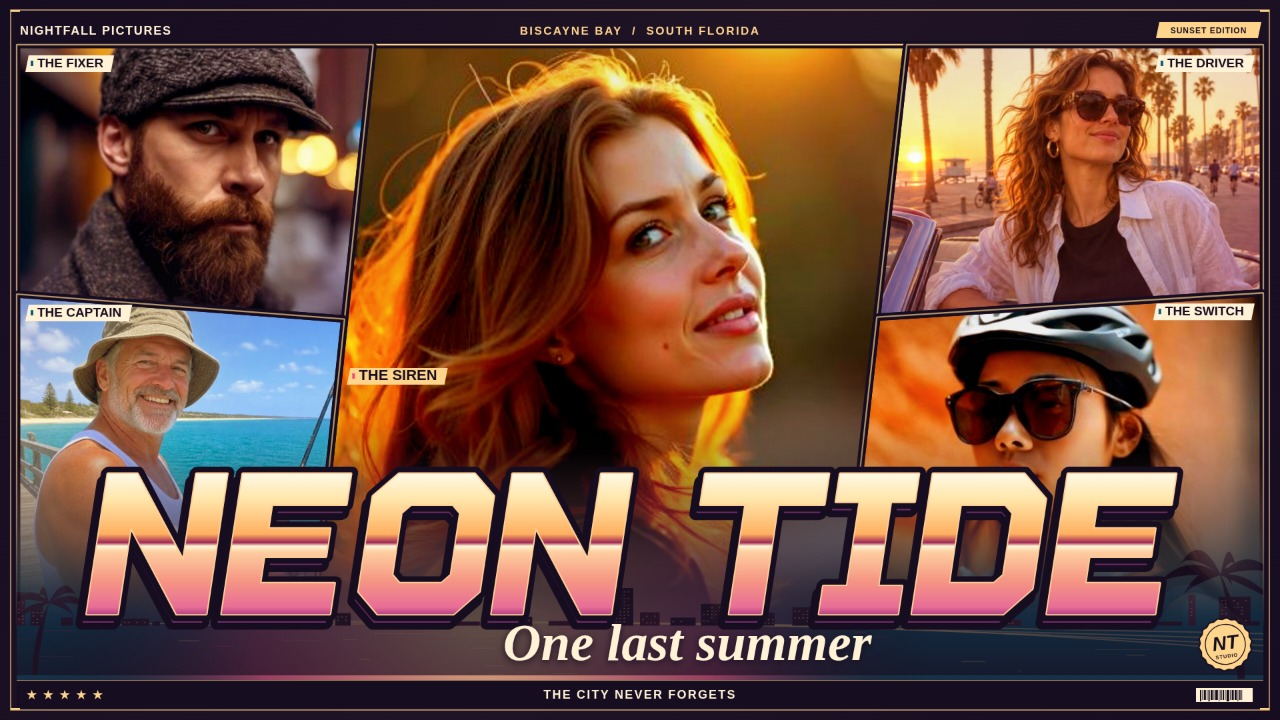
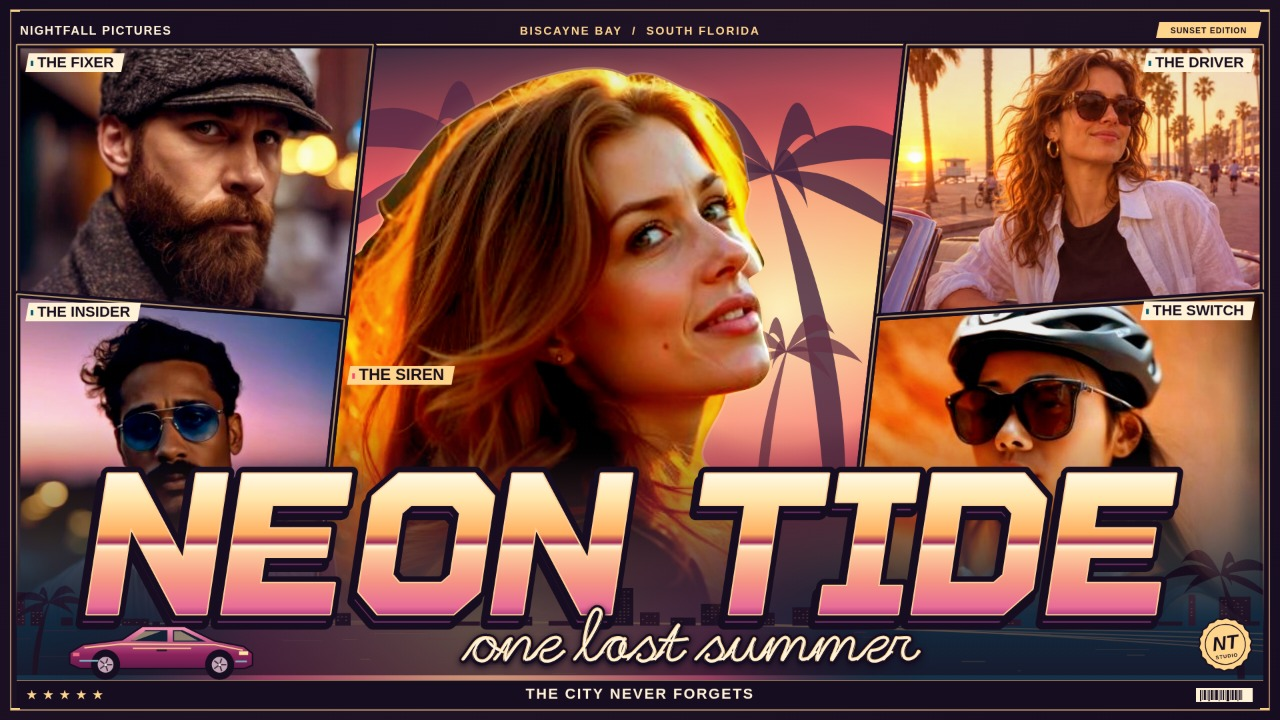
Add original script lettering and cinematic cast backdrops

diff --git a/app/src/art.js b/app/src/art.js
@@ -27,7 +27,7 @@ export const LAYOUTS = [
 const cast = [
   { role: 'THE SIREN', x: -0.06, y: 0.93 },
   { role: 'THE FIXER', x: 0.08, y: 0.42 },
-  { role: 'THE CAPTAIN', x: 0.02, y: 0.63 },
+  { role: 'THE INSIDER', x: 0.02, y: 0.63 },
   { role: 'THE DRIVER', x: -0.07, y: 0.74 },
   { role: 'THE SWITCH', x: -0.12, y: 0.76 },
 ];
@@ -253,6 +253,56 @@ function palm(ctx, x, y, size, sway, color) {
   ctx.restore();
 }
 
+const velvetProfile = 'M34 442C42 419 36 386 34 366C29 340 22 320 24 291C18 268 18 238 22 209C27 191 34 183 32 168C38 159 44 151 52 146C55 137 65 134 68 124C66 120 63 116 64 111C72 108 74 100 83 93C91 80 99 71 111 59C122 52 134 43 145 39C156 30 170 26 182 23C203 17 225 14 240 23C256 17 268 26 281 32C297 36 305 44 315 59C324 74 323 92 327 103C326 113 320 120 325 130C329 137 334 145 337 153C339 160 331 162 326 166C327 173 335 180 335 189C337 197 335 203 339 213C343 225 342 232 336 238C332 244 322 245 310 248C308 260 296 274 294 284C289 295 299 304 312 307C325 310 327 322 322 331C317 340 322 348 326 356C330 367 337 373 341 383C335 389 322 389 321 397C322 410 330 424 325 442Z';
+
+function paintLead(ctx, asset, panel, crop, grade, amount, inkMode) {
+  if (!asset?.backdrop || amount < .2) {
+    projectPhoto(ctx, asset, panel, crop, grade, amount, 0, inkMode);
+    return;
+  }
+
+  const { x, y, w, h } = panel;
+  const fit = cropTravel(asset.image, panel, crop.zoom);
+  const transform = new DOMMatrix()
+    .translate(x + w / 2 + fit.x * crop.x, y + h / 2 + fit.y * crop.y)
+    .scale(crop.flip ? -1 : 1, 1)
+    .translate(-fit.w / 2, -fit.h / 2)
+    .scale(fit.w / 451, fit.h / 442);
+  const outline = new Path2D();
+  outline.addPath(new Path2D(velvetProfile), transform);
+
+  ctx.fillStyle = ramp(ctx, x, y, x + w * .13, y + h, [
+    '#30283c', grade.sky[0], grade.sky[2], grade.hot, grade.base,
+  ]);
+  ctx.fillRect(x, y, w, h);
+  const sunX = x + w * .79;
+  const sunY = y + h * .43;
+  const sun = ctx.createRadialGradient(sunX, sunY, 1, sunX, sunY, w * .38);
+  sun.addColorStop(0, '#fff6cace');
+  sun.addColorStop(.20, '#fff1c17d');
+  sun.addColorStop(.57, colorHex(grade.rim, .42));
+  sun.addColorStop(1, '#0000');
+  ctx.fillStyle = sun;
+  ctx.fillRect(x, y, w, h);
+  ctx.fillStyle = '#29172b99';
+  ctx.fillRect(x, y + h * .69, w, h * .31);
+  palm(ctx, x + w * .87, y + h * .71, h * .53, -1, '#462640d2');
+  palm(ctx, x + w * .19, y + h * .78, h * .62, 1, '#512745b8');
+  palm(ctx, x + w * .76, y + h * .74, h * .26, .83, '#663144c2');
+
+  ctx.save();
+  ctx.strokeStyle = colorHex(grade.rim, .37);
+  ctx.lineWidth = h * .007;
+  ctx.lineJoin = 'round';
+  ctx.shadowColor = grade.rim;
+  ctx.shadowBlur = h * .026;
+  ctx.stroke(outline);
+  ctx.shadowBlur = 0;
+  ctx.clip(outline);
+  projectPhoto(ctx, asset, panel, crop, grade, amount, 0, inkMode);
+  ctx.restore();
+}
+
 function causeway(ctx, geometry, grade) {
   const { width: w, height: h, edge, unit: u } = geometry;
   const top = h * .561;
@@ -345,12 +395,12 @@ function roleCard(ctx, panel, role, geometry, grade) {
   if (edges.length < 2) return;
   const left = Math.min(...edges) + 13 * u;
   const right = Math.max(...edges) - 13 * u;
-  const size = (isLead ? 22 : 19) * u;
+  const size = (isLead ? 24 : 22) * u;
   ctx.font = `800 ${size}px sans-serif`;
   const labelWidth = Math.max(24 * u, Math.min(ctx.measureText(name).width + 34 * u, right - left, width * .24));
   const x = left > width / 2 ? right - labelWidth : Math.max(edge + 9 * u, left);
   ctx.fillStyle = isLead ? grade.rim : paper;
-  polygon(ctx, [[x + 5 * u, y - 20 * u], [x + labelWidth, y - 20 * u], [x + labelWidth - 5 * u, y + 5 * u], [x, y + 5 * u]]);
+  polygon(ctx, [[x + 5 * u, y - 23 * u], [x + labelWidth, y - 23 * u], [x + labelWidth - 5 * u, y + 5 * u], [x, y + 5 * u]]);
   ctx.fill();
   ctx.fillStyle = isLead ? grade.hot : grade.cool;
   ctx.fillRect(x + 8 * u, y - 12 * u, 4 * u, 8 * u);
@@ -427,6 +477,71 @@ function titlePaint(ctx, height, grade, finish) {
   ]);
 }
 
+const scriptLetters = {
+  a: [31, 'M0 37C8 31 10 18 21 17C33 16 28 36 19 38C8 40 13 17 24 18M28 18C21 30 22 42 38 30'],
+  b: [30, 'M0 38C9 28 30-8 25-9C16-12 10 25 10 32C9 44 26 40 30 26C35 10 21 17 15 29M24 38C28 39 34 34 37 30'],
+  c: [26, 'M0 37C10 28 11 17 23 17C33 16 25 25 22 24M23 17C9 13 5 41 20 38C25 37 29 34 33 30'],
+  d: [33, 'M0 37C7 31 10 18 23 17C31 16 28 36 18 38C7 40 12 18 23 18M26 34C28 19 45-11 39-10C29-10 21 32 29 37C34 41 39 32 40 30'],
+  e: [25, 'M0 37C6 32 14 19 22 17C34 14 28 29 13 29C5 43 22 42 32 30'],
+  f: [27, 'M0 37C11 26 31-11 27-13C20-20 10 16 10 41C11 65-1 63 3 47C8 33 19 31 31 30M1 22C12 24 23 23 27 22'],
+  g: [32, 'M0 37C7 30 12 16 23 17C34 17 28 37 19 39C6 42 10 17 23 18M29 19C23 33 21 66 9 62C-2 55 20 44 39 30'],
+  h: [31, 'M0 37C8 30 28-7 24-10C14-14 6 33 8 38C12 35 18 15 26 17C36 19 16 40 28 38C33 38 36 33 38 30'],
+  i: [18, 'M0 37C5 32 10 22 14 18C10 27 7 40 17 37C20 36 23 33 25 30M17 7L17 8'],
+  j: [20, 'M0 37C6 31 10 24 15 18C12 34 12 66 0 62C-9 57 9 43 27 30M18 7L18 8'],
+  k: [30, 'M0 37C8 28 27-10 23-11C15-13 6 31 8 38M10 31C20 21 31 12 32 19C33 26 13 29 14 31C19 32 14 42 27 37C31 35 34 32 37 30'],
+  l: [19, 'M0 37C11 24 31-7 22-10C13-14 2 38 14 38C19 38 23 33 26 30'],
+  m: [47, 'M0 37C6 31 9 22 14 18C10 29 8 35 9 38C14 29 23 12 28 18C31 23 21 36 23 38C27 33 37 13 42 18C47 23 33 41 45 37C49 36 52 33 54 30'],
+  n: [33, 'M0 37C7 30 11 18 15 18C10 29 9 36 10 38C14 33 26 12 31 18C36 24 22 41 32 37C36 36 39 33 40 30'],
+  o: [30, 'M0 37C8 28 11 16 22 17C37 17 27 40 17 39C5 38 11 18 22 17C24 23 30 27 37 30'],
+  p: [33, 'M0 37C6 31 10 22 15 18L2 60M10 34C17 21 27 10 31 20C36 31 22 43 15 36M24 38C30 38 36 34 40 30'],
+  q: [32, 'M0 37C9 29 11 17 24 17C33 18 27 39 16 39C6 38 13 18 23 18M30 18C25 31 18 57 23 60C28 64 33 45 24 43C28 40 35 34 39 30'],
+  r: [26, 'M0 37C5 32 10 22 12 17C19 18 25 15 24 19C18 23 14 39 25 37C29 36 32 33 33 30'],
+  s: [26, 'M0 37C7 29 21 15 21 17C21 25 29 28 23 35C16 43 6 38 11 33M21 37C26 38 31 33 33 30'],
+  t: [21, 'M0 37C7 29 18 9 22 5C14 26 7 40 18 38C22 37 26 33 28 30M5 19C14 20 25 19 30 18'],
+  u: [33, 'M0 37C7 30 11 20 14 18C9 29 5 40 15 38C21 37 26 24 29 18C25 28 23 41 33 37C36 36 38 33 40 30'],
+  v: [29, 'M0 37C6 30 10 20 13 18C7 30 10 43 18 36C26 30 30 16 27 17C23 21 29 28 36 30'],
+  w: [43, 'M0 37C8 30 10 20 13 18C8 29 7 42 16 37C23 33 28 18 28 18C22 31 24 43 32 35C39 28 43 16 40 17C37 23 41 28 50 30'],
+  x: [30, 'M0 37C6 31 8 19 14 18C20 16 15 37 24 37C30 37 34 33 37 30M29 18C20 26 13 35 5 40'],
+  y: [32, 'M0 37C6 30 9 20 14 18C7 30 6 43 18 36C24 32 28 22 30 18C24 34 20 65 7 62C-2 56 20 44 39 30'],
+  z: [29, 'M0 37C8 30 10 18 14 18C19 18 26 21 29 18C23 27 13 34 12 37C19 33 28 34 25 45C22 57 6 65 7 55C8 46 22 40 36 30'],
+};
+
+function brushSubtitle(ctx, value, center, baseline, height, maxWidth, grade) {
+  const chars = [...value.normalize('NFD').replace(/\p{M}/gu, '').toLowerCase()];
+  if (chars.some(char => char !== ' ' && !scriptLetters[char])) return false;
+  const outline = new Path2D();
+  let pen = 0;
+  for (const char of chars) {
+    if (char === ' ') {
+      pen += 18;
+      continue;
+    }
+    const [advance, path] = scriptLetters[char];
+    outline.addPath(new Path2D(path), new DOMMatrix().translate(pen, 0));
+    pen += advance;
+  }
+  const scale = Math.min(height / 50, maxWidth / Math.max(1, pen));
+  ctx.save();
+  ctx.translate(center - pen * scale / 2, baseline - 38 * scale);
+  ctx.scale(scale, scale);
+  ctx.lineCap = 'round';
+  ctx.lineJoin = 'round';
+  ctx.strokeStyle = ink;
+  ctx.lineWidth = 8.2;
+  ctx.shadowColor = ink;
+  ctx.shadowBlur = 8;
+  ctx.stroke(outline);
+  ctx.shadowBlur = 0;
+  ctx.strokeStyle = grade.rim;
+  ctx.lineWidth = 3.9;
+  ctx.stroke(outline);
+  ctx.strokeStyle = paper;
+  ctx.lineWidth = 2.25;
+  ctx.stroke(outline);
+  ctx.restore();
+  return true;
+}
+
 function titleLockup(ctx, geometry, grade, state) {
   const { width: w, height: h, unit: u, wide } = geometry;
   const value = state.title.trim() || 'NEON TIDE';
@@ -476,9 +591,11 @@ function titleLockup(ctx, geometry, grade, state) {
     ctx.shadowColor = ink;
     ctx.shadowBlur = 12 * u;
     ctx.shadowOffsetY = 3 * u;
-    caption(ctx, subtitle, w * (wide ? .537 : .51), baseline, size, {
-      align: 'center', italic: true, family: 'serif', weight: 700, limit: w * .69,
-    });
+    if (!brushSubtitle(ctx, subtitle, w * (wide ? .537 : .51), baseline, size, w * .69, grade)) {
+      caption(ctx, subtitle, w * (wide ? .537 : .51), baseline, size, {
+        align: 'center', italic: true, family: 'serif', weight: 700, limit: w * .69,
+      });
+    }
     ctx.restore();
   }
 }
@@ -508,6 +625,71 @@ function pressSeal(ctx, x, y, radius, grade) {
   ctx.restore();
 }
 
+function getawayCoupe(ctx, geometry, grade) {
+  const { wide, width, height, unit } = geometry;
+  if (!wide) return;
+  ctx.save();
+  const scale = unit * .91;
+  ctx.translate(width * .055, height * .871);
+  ctx.scale(scale, scale);
+  ctx.lineJoin = 'round';
+
+  ctx.fillStyle = ramp(ctx, 0, 0, 0, 90, ['#fc94b6', '#8c235c', '#3b123b']);
+  const shell = new Path2D('M0 43 22 30 86 22 119 0 188 0 237 24 285 33 299 44 299 62 287 67H16L0 60Z');
+  ctx.strokeStyle = ink;
+  ctx.lineWidth = 5;
+  ctx.stroke(shell);
+  ctx.fill(shell);
+  ctx.fillStyle = '#132135';
+  ctx.fill(new Path2D('M99 23 124 5H160V24ZM169 5H185L224 24H169Z'));
+  ctx.fillStyle = '#efc99b91';
+  ctx.fill(new Path2D('M120 7H149L107 22H100ZM171 7H182L210 22H171Z'));
+  ctx.strokeStyle = colorHex(grade.rim, .9);
+  ctx.lineWidth = 2.3;
+  ctx.beginPath();
+  ctx.moveTo(23, 34);
+  ctx.lineTo(84, 28);
+  ctx.lineTo(238, 29);
+  ctx.lineTo(284, 38);
+  ctx.moveTo(103, 35);
+  ctx.lineTo(199, 35);
+  ctx.stroke();
+
+  for (const x of [58, 246]) {
+    ctx.fillStyle = ink;
+    ctx.beginPath();
+    ctx.ellipse(x, 62, 24, 25, 0, 0, Math.PI * 2);
+    ctx.fill();
+    ctx.fillStyle = '#c3a5b5';
+    ctx.beginPath();
+    ctx.arc(x, 62, 13, 0, Math.PI * 2);
+    ctx.fill();
+    ctx.strokeStyle = '#483049';
+    ctx.lineWidth = 2.3;
+    for (let ray = 0; ray < 5; ray++) {
+      const angle = ray * Math.PI * .4;
+      ctx.beginPath();
+      ctx.moveTo(x, 62);
+      ctx.lineTo(x + 11 * Math.cos(angle), 62 + 11 * Math.sin(angle));
+      ctx.stroke();
+    }
+    ctx.fillStyle = '#eee2d6';
+    ctx.fillRect(x - 2, 60, 4, 4);
+  }
+  ctx.fillStyle = '#fdea9d';
+  ctx.fillRect(278, 40, 15, 6);
+  ctx.fillStyle = '#e76b84';
+  ctx.fillRect(4, 42, 11, 6);
+  ctx.fillStyle = '#27172f';
+  ctx.fillRect(142, 37, 17, 3);
+  ctx.fillStyle = '#79aebe';
+  ctx.fillRect(15, 54, 31, 3);
+  ctx.fillRect(272, 55, 19, 3);
+  ctx.fillStyle = '#e296b457';
+  ctx.fillRect(-13, 87, 331, 2);
+  ctx.restore();
+}
+
 function filmFooter(ctx, geometry, grade, state) {
   const { width: w, height: h, unit: u, edge } = geometry;
   const line = h - 60 * u;
@@ -518,7 +700,7 @@ function filmFooter(ctx, geometry, grade, state) {
   ctx.fillRect(edge, line, w - 2 * edge, u);
   const left = edge + 15 * u;
   caption(ctx, '★ ★ ★ ★ ★', left, baseline, 17 * u, { color: grade.rim, tracking: 2.4 * u });
-  caption(ctx, state.tagline.toUpperCase(), w / 2, baseline, 18 * u, {
+  caption(ctx, state.tagline.toUpperCase(), w / 2, baseline, 22 * u, {
     align: 'center', tracking: 2.2 * u, limit: w * .58,
   });
   const right = w - edge - 101 * u;
@@ -548,7 +730,8 @@ function paintCast(ctx, state, photos, geometry, grade) {
     layer.save();
     polygon(layer, panel.vertices);
     layer.clip();
-    projectPhoto(layer, photos[crop.photo], panel, crop, grade, state.strength, panel.index, state.inkMode);
+    if (panel.index === 0) paintLead(layer, photos[crop.photo], panel, crop, grade, state.strength, state.inkMode);
+    else projectPhoto(layer, photos[crop.photo], panel, crop, grade, state.strength, panel.index, state.inkMode);
     layer.restore();
   }
   for (const panel of panels) {
@@ -592,6 +775,7 @@ export function renderPoster(canvas, state, photos, format = state.format) {
   paintCast(ctx, state, photos, geometry, grade);
   for (const panel of panels) roleCard(ctx, panel, state.panels[panel.index].role, geometry, grade);
   titleLockup(ctx, geometry, grade, state);
+  getawayCoupe(ctx, geometry, grade);
   pressSeal(ctx, width - edge - (wide ? 57 : 40) * u, height * .895, (wide ? 39 : 29) * u, grade);
   filmFooter(ctx, geometry, grade, state);
   frame(ctx, geometry, grade, state);

diff --git a/app/src/studio.js b/app/src/studio.js
@@ -8,7 +8,8 @@ const canvas = byId('poster');
 const params = new URLSearchParams(location.search);
 const starters = [
   ['Velvet', 'velvet.jpg'], ['Night Shift', 'night-shift.jpg'],
-  ['Pier', 'pier.jpg'], ['Boulevard', 'boulevard.jpg'], ['Switchboard', 'switchboard.jpg'],
+  ['Insider', 'insider.jpg'], ['Boulevard', 'boulevard.jpg'], ['Switchboard', 'switchboard.jpg'],
+  ['Pier', 'pier.jpg'],
 ];
 const formatNames = { landscape: 'Wide', portrait: 'Portrait', square: 'Square' };
 const photoLibrary = [];
@@ -442,7 +443,7 @@ async function start() {
   new ResizeObserver(fitPreview).observe(byId('preview-area'));
   const samples = await Promise.all(starters.map(async ([name, path]) => {
     const url = new URL('../samples/' + path, import.meta.url);
-    return { name, image: await load(url) };
+    return { name, image: await load(url), backdrop: path === 'velvet.jpg' };
   }));
   photoLibrary.push(...samples);
   libraryControls();

diff --git a/README.md b/README.md
@@ -4,7 +4,7 @@
 [![Rank](https://make.fun/badge/gta6-cover-art-01/tqhieu1105/gta6-cover-studio/rank.svg)](https://make.fun/competitions/gta6-cover-art-01)
 [![Reward](https://make.fun/badge/gta6-cover-art-01/tqhieu1105/gta6-cover-studio/reward.svg)](https://make.fun/competitions/gta6-cover-art-01)
 
-Build the cast for a fictional South Florida crime film. Neon Tide combines five photo panels with bold, angled lettering and a drawn waterfront. It runs offline as a static site in desktop Chrome.
+Build the cast for a fictional South Florida crime film. The starter library includes six model-generated portraits you can replace. Neon Tide combines five photo panels with bold, angled lettering and a drawn waterfront. It runs offline as a static site in desktop Chrome.
 
 Serve the `app/` directory with any static server, or run `node serve.ts` and open `http://127.0.0.1:8080` with Node.js 22.18 or later.
 
@@ -21,9 +21,9 @@ Run `timeout 100 node tools/verify.mjs` to check local photo imports, cropping, 
 
 ## Sample photographs
 
-`boulevard.jpg` and `pier.jpg` are model-generated samples supplied by the competition kit. The other photographs are original crops and color adjustments of fictional adults from David Beniaguev’s SFHQ-T2I demonstration sheets. Night Shift comes from the Facial Hair sheet (row 1, cell 3), Velvet from Lighting (row 5, cell 6), and Switchboard from Glasses Style (row 6, cell 10). See the [source sheets](https://github.com/SelfishGene/SFHQ-T2I-dataset) and the [dataset license](https://www.kaggle.com/datasets/selfishgene/sfhq-t2i-synthetic-faces-from-text-2-image-models).
+`boulevard.jpg` and `pier.jpg` are model-generated samples supplied by the competition kit. The other four photographs are original crops and color adjustments of fictional adults from David Beniaguev’s SFHQ-T2I demonstration sheets. Night Shift comes from the Facial Hair sheet (row 1, cell 3), Velvet from Lighting (row 5, cell 6), and Switchboard from Glasses Style (row 6, cell 10), and Insider from Lighting (row 6, cell 10). See the [source sheets](https://github.com/SelfishGene/SFHQ-T2I-dataset) and the [dataset license](https://www.kaggle.com/datasets/selfishgene/sfhq-t2i-synthetic-faces-from-text-2-image-models).
 
-The poster layout, scenery, and display lettering are original. The repository's MIT license covers the app source.
+The poster layout, drawn coupe and waterfront, traced sample silhouette, block display letters, and connected script subtitle are original. The silhouette treatment applies only to the bundled Velvet sample; local imports keep their full photograph. The repository's MIT license covers the app source.
 
 MIT License for the SFHQ-T2I sample photographs
 
